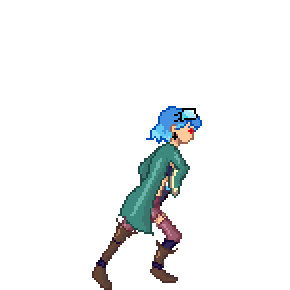
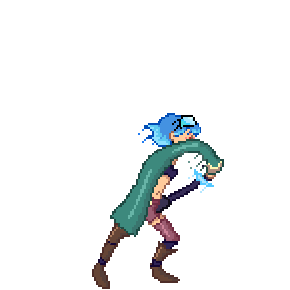
Add files via upload
Not sure if this will update my files correctly but we'll see. >>>

Holy moly. I finally fixed my code. The animation for the attack actually works now and I even applied an attack cooldown (though my brother told me to make it less LOL). But man oh man, this is something I was stuck on for such a long time and I finally fixed it. Now all I have to do is the death animation followed by like the win screen and intro stuff. I’m really proud that I was able to fix that though because my game is actually functional now and doesn’t crash. (Somehow when I was working with the attack cooldown, I made an infinite loop and it kept crashing my program–my mac wasn’t the problem it was me LOL (joking))

Changed region(s): [[0.3103, 0.3414, 0.7759, 0.931], [0.3414, 0.9621, 0.4034, 1.0], [0.3103, 0.9621, 0.3414, 0.9931]]

diff --git a/player.py b/player.py
@@ -22,6 +22,7 @@ class Player():
         self.health = 100
         self.attack_start_time = 0
         self.start_time = time.time()
+        self.attack_cooldown = 0
 
         # Load and scale images
         self.player_one_idle = [
@@ -36,7 +37,7 @@ class Player():
 
         self.player_one_atk = [
             self.scale_image(pygame.image.load(f"assets/images/playerone/atk/Blue_ATK_{i}.png").convert_alpha())
-            for i in range(1, 6)
+            for i in range(1, 4)
         ]
 
         self.player_two_idle = [
@@ -47,6 +48,11 @@ class Player():
         self.player_two_run = [
             self.scale_image(pygame.image.load(f"assets/images/playertwo/run/Pink_Run_{i}.png").convert_alpha())
             for i in range(1, 7)
+        ]
+
+        self.player_two_atk = [
+            self.scale_image(pygame.image.load(f"assets/images/playertwo/atk/Pink_ATK_{i}.png").convert_alpha())
+            for i in range(1, 5)
         ]
 
         self.current_frame = 0
@@ -66,6 +72,8 @@ class Player():
                 return self.player_two_idle[self.current_frame]
             elif self.action == 1:
                 return self.player_two_run[self.current_frame]
+            elif self.action == 3:
+                return self.player_two_atk[self.current_frame]
 
     def move(self, SCREEN_WIDTH, SCREEN_HEIGHT, surface, enemy):
         speed = 10
@@ -74,6 +82,7 @@ class Player():
         gravity = 2
 
         key = pygame.key.get_pressed()
+
 
         # check for movement and NOT when attacking
         if not self.attacking:
@@ -93,6 +102,8 @@ class Player():
 
                 #attack
                 if key[pygame.K_f]:
+                    print("coooldownn")
+                    print(self.attack_cooldown)
                     self.attack(surface, enemy)
 
             if self.player == 2:
@@ -113,9 +124,9 @@ class Player():
                 if key[pygame.K_l]:
                     self.attack(surface, enemy)
 
-        if (self.attacking) and (pygame.time.get_ticks() - self.attack_start_time) > 300:
-            self.action = 0  # Idle
-            self.attacking = False
+        #if (self.attacking) and (pygame.time.get_ticks() - self.attack_start_time) > 3000:
+         #  self.action = 0  # Idle
+          # self.attacking = False
 
         self.vel_y += gravity
         change_y += self.vel_y
@@ -137,24 +148,31 @@ class Player():
         else:
             self.flip = True
 
+        if self.attack_cooldown > 0:
+            self.attack_cooldown -= 1
 
         # updating the position
         self.rect.x += change_x
         self.rect.y += change_y
 
     def attack(self, surface, enemy):
-        self.action = 3  # Attack
-        self.attacking = True
-        self.attack_start_time = pygame.time.get_ticks()
+        #self.action = 3  # Attack
+        #self.attacking = True
+        #self.attack_start_time = pygame.time.get_ticks()
+        #self.attack_cooldown = 300
 
-        while self.attacking:
+        if self.attack_cooldown == 0:
+            self.action = 3  # Attack
+            self.attacking = True
+            self.attack_start_time = pygame.time.get_ticks()
+            #while self.attacking:
             collision_attack = pygame.Rect((self.rect.centerx - (2*self.rect.width * self.flip), self.rect.y, 2*self.rect.width, self.rect.height))
             if collision_attack.colliderect(enemy.rect):
                 enemy.health -= 10
-                self.action = 0
-                break
+                    #break
+            self.attack_cooldown = 300
 
-        pygame.draw.rect(surface, (0, 0, 255), collision_attack)
+        #pygame.draw.rect(surface, (0, 0, 255), collision_attack)
 
     def next_frame(self):
         self.current_frame += 1
@@ -171,13 +189,10 @@ class Player():
             self.current_frame = 0
 
         if self.action == 3:
-            self.run_time = time.time()
-            while self.attacking == True:
-                self.current_time = self.run_time - self.start_time
-            if self.current_time >= 3:
-                self.current_frame += 1
-
-
+           current_time = pygame.time.get_ticks()
+           if current_time - self.attack_start_time >= 250:  # 3000 milliseconds = 3 seconds
+               self.action = 0  # Reset to idle after attack animation
+               self.attacking = False
 
     def draw(self, surface):
         img = pygame.transform.flip(self.get_image(), self.flip, False)

diff --git a/main.py b/main.py
@@ -55,12 +55,11 @@ frame_time = 300  # 300 milliseconds
 last_frame_update = pygame.time.get_ticks()
 current_time = pygame.time.get_ticks()
 clock = pygame.time.Clock()
-frame = 0
-attack_start_time = 0
 
 while run:
     clock.tick(FPS)
     draw_bg()
+    print(player_1.attack_cooldown)
 
     health_bar(player_1.health, 20, 20)
     health_bar(player_2.health, 580, 20)
@@ -77,9 +76,6 @@ while run:
         player_1.next_frame()
         player_2.next_frame()
         last_frame_update = current_time
-
-    #if Player.action == 3:
-
 
     for event in pygame.event.get():
         if event.type == pygame.QUIT:
